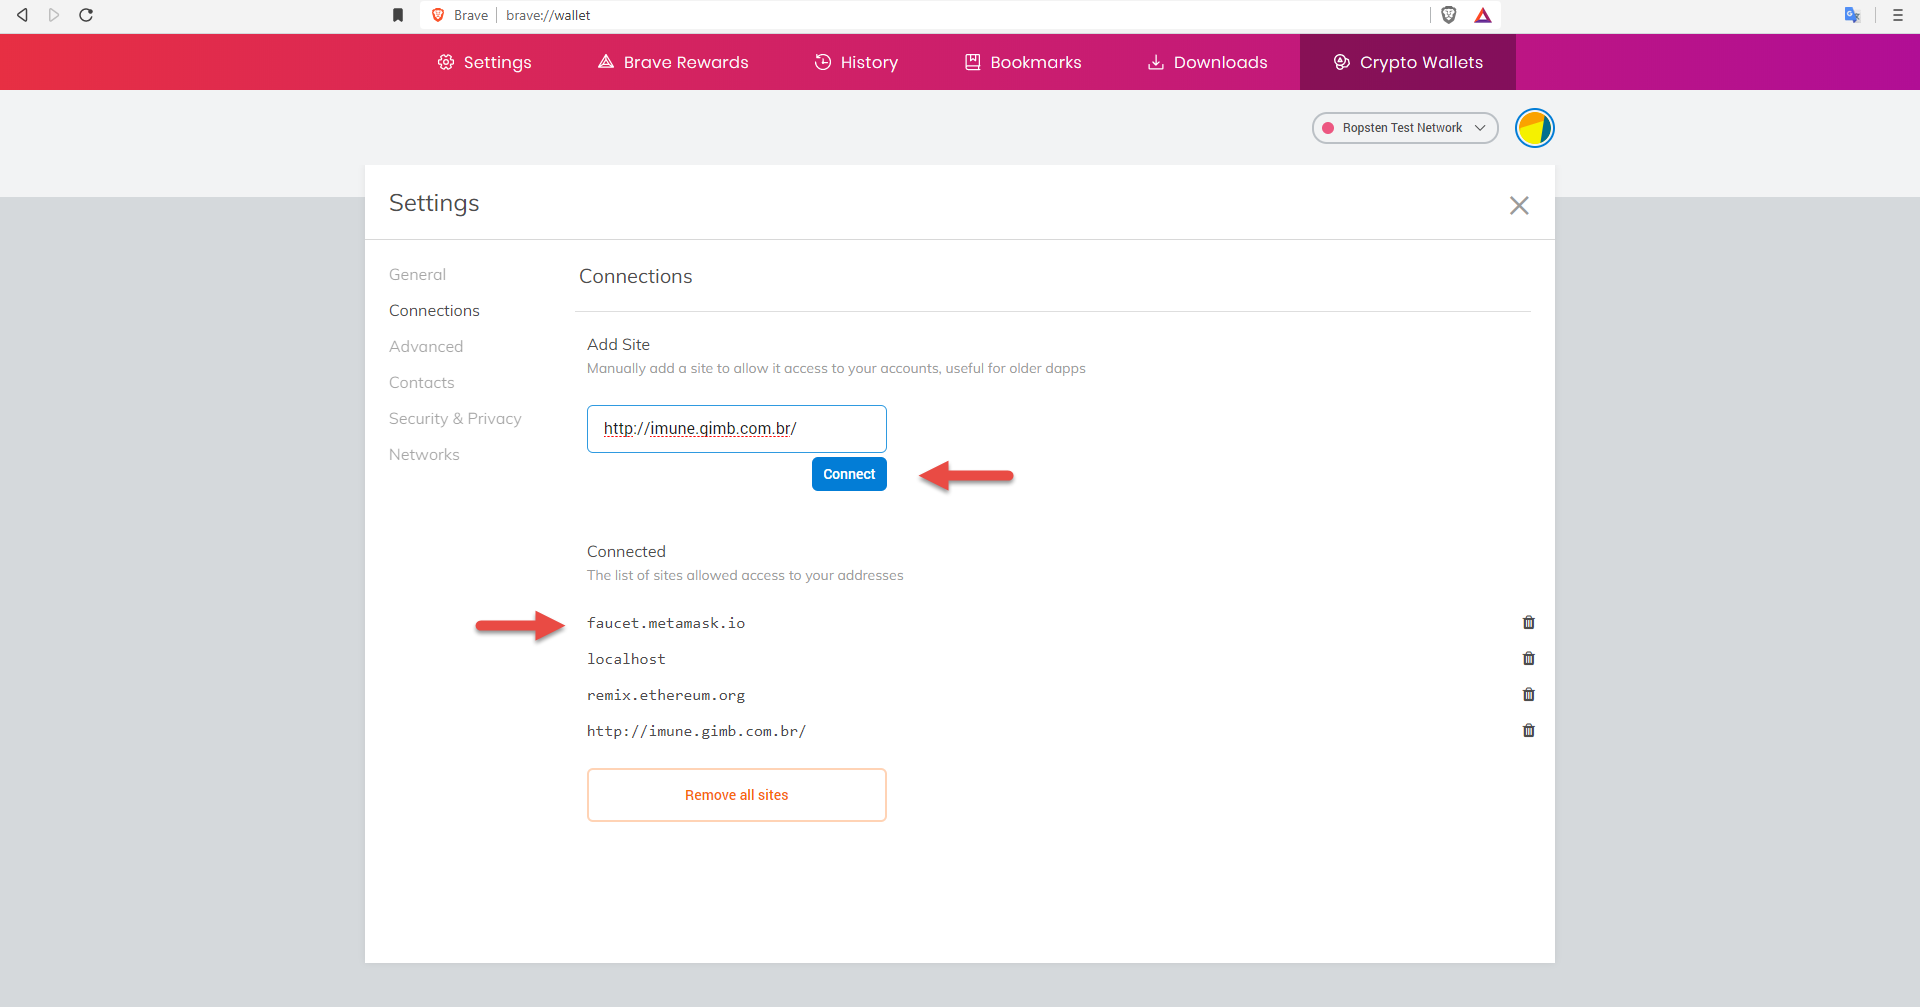
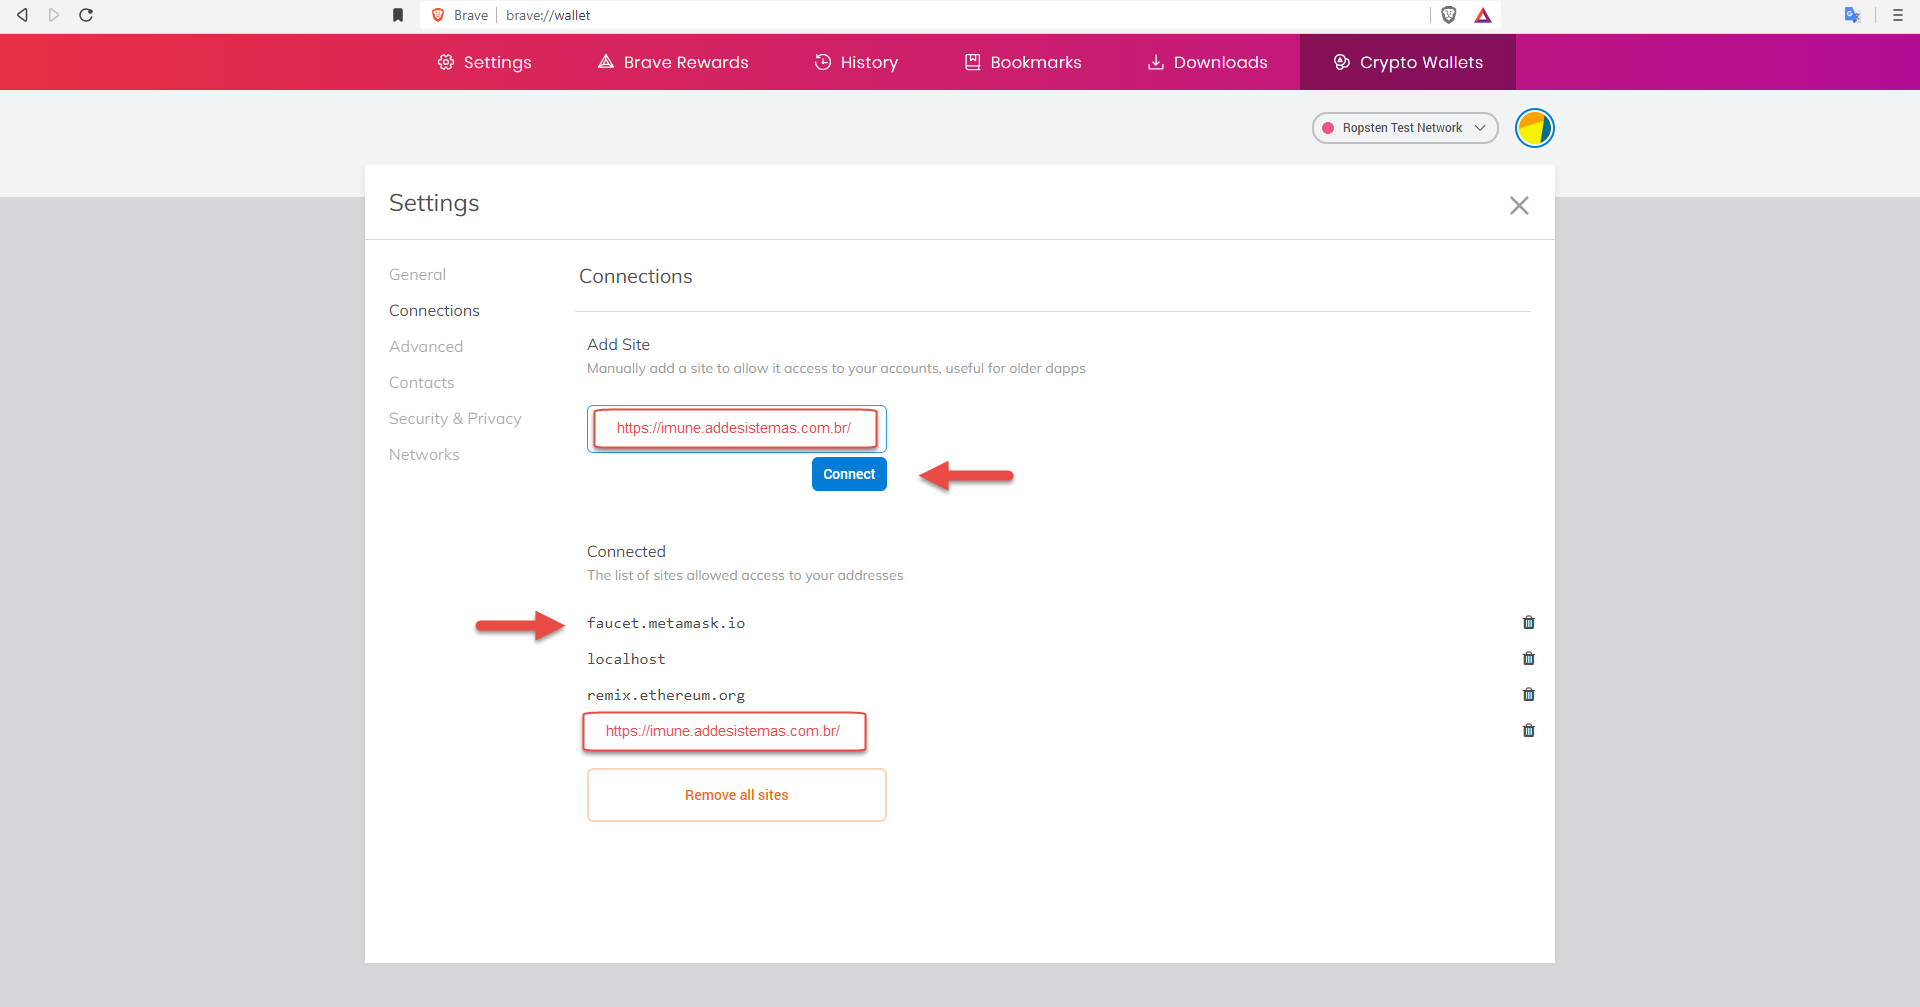
changed url

Changed region(s): [[0.3125, 0.4002, 0.4688, 0.4618], [0.2812, 0.708, 0.4688, 0.7696]]

diff --git a/README.md b/README.md
@@ -37,6 +37,10 @@ yarn:
 Se tudo ocorreu correntamente no console irá ser apresentado o endereço em que
 o projeto está sendo executado. ;) 🚀
 
+# URL do sistema (MVP)
+
+[https://imune.addesistemas.com.br/](https://imune.addesistemas.com.br/)
+
 ## No browser Chrome:
 
 1. Instalar o plugin metamask
